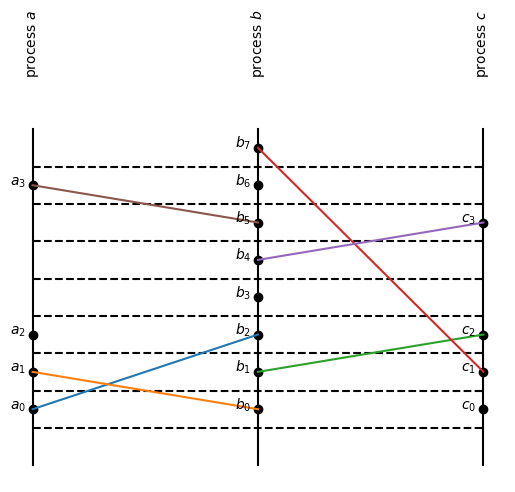
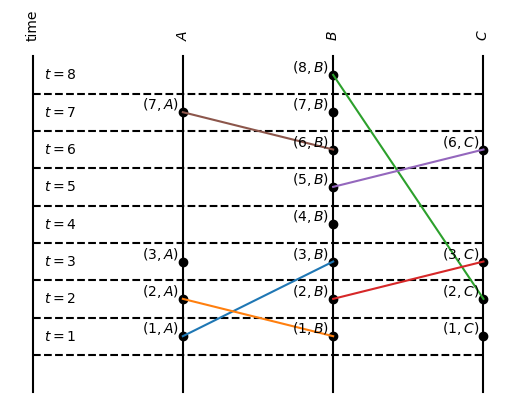
Improves plotting
- Adds a time axis
- Changes labels
- Improves code readability

diff --git a/plot.py b/plot.py
@@ -1,59 +1,73 @@
 import matplotlib.pyplot as plt
 import string
 
-data = """send 0 0 1 1
+class Event:
+
+    def __init__(self, kind, owner, src, dst, timestamp):
+        self.kind = kind
+        self.owner = owner
+        self.src = src
+        self.dst = dst
+        self.timestamp = timestamp
+
+data = """local 2 -1 -1 1
+send 2 2 1 2
+send 0 0 1 1
 send 1 1 0 1
 send 1 1 2 2
+receive 2 1 2 3
+receive 0 1 0 2
+local 0 -1 -1 3
 receive 1 0 1 3
 local 1 -1 -1 4
 send 1 1 2 5
 send 1 1 0 6
-local 1 -1 -1 7
-local 2 -1 -1 1
-send 2 2 1 2
-receive 1 2 1 8
-receive 0 1 0 2
-local 0 -1 -1 3
 receive 0 1 0 7
-receive 2 1 2 3
-receive 2 1 2 6"""
+receive 2 1 2 6
+local 1 -1 -1 7
+receive 1 2 1 8"""
 
 events = list(map(lambda x : x.split(' '),  data.split("\n")))   
-events = list(map(lambda x : [x[0], int(x[1]), int(x[2]), int(x[3]),  int(x[4])], events))
-events.sort(key = lambda x : x[4])
-max_timestamp = events[-1][4]
+events = list(map(lambda x : Event(x[0], int(x[1]), int(x[2]), int(x[3]),  int(x[4])), events))
+events.sort(key = lambda e : e.timestamp)
+maxTimestamp = events[-1].timestamp
 
-num_threads = 3
+numThreads = len({e.owner for e in events}) # numThreads is the number of distinct owners (processes)
 
 # horizontal lines
-for i in range(max_timestamp):
-    plt.plot([0, num_threads - 1], [i + 0.5, i + 0.5], "k--")
+for i in range(maxTimestamp):
+    plt.plot([0, numThreads], [i + 0.5, i + 0.5], "k--")
 
 # vertical lines
-for i in range(num_threads):
-    plt.plot([i, i], [-0.5, max_timestamp + 0.5], "k")
+for i in range(numThreads + 1):
+    plt.plot([i, i], [-0.5, maxTimestamp + 0.5], "k")
 
 # thread labels
-for i in range(num_threads):
-    plt.text(i, max_timestamp + 2, "process ${}$".format(string.ascii_letters[i]), rotation="vertical", horizontalalignment="center")
+labels = ["time"] + ["${}$".format(string.ascii_uppercase[i]) for i in range(numThreads)]
+for i, label in enumerate(labels):
+    plt.text(i, maxTimestamp + 1, label, rotation="vertical", horizontalalignment="center")
+
+# time labels
+for t in range(1, maxTimestamp + 1):
+    plt.text(0.075, t - 0.1, "$t={}$".format(t))
 
 # event labels
-for i in range(num_threads):
-    for (j, e) in enumerate(filter(lambda e: e[1] == i, events)):
-        plt.text(e[1] - 0.1, e[4], "${}_{}$".format(string.ascii_letters[i], j))
+for i in range(numThreads):
+    for (j, e) in enumerate(filter(lambda e: e.owner == i, events)):
+        plt.text(e.owner - 0.275 + 1, e.timestamp + 0.1, "$({},{})$".format(e.timestamp, string.ascii_uppercase[i]))
 
 # events
 while len(events) > 0:
     e = events.pop(0)
 
-    if e[0] == 'local':
-        plt.scatter([e[1]], [e[4]], c="k")
-    elif e[0] == 'send':
+    if e.kind == 'local':
+        plt.scatter([e.owner + 1], [e.timestamp], c = "k")
+    elif e.kind == 'send':
         s = e
-        (x0, y0) = (s[1], s[4])
-        r = next(e for e in events if e[0] == 'receive'and e[2] == s[2])
-        (x1, y1)  = (r[1], r[4])
-        plt.scatter([x0, x1], [y0, y1], c="k")
+        (x0, y0) = (s.owner + 1, s.timestamp)
+        r = next(e for e in events if e.kind == 'receive' and e.src == s.src)
+        (x1, y1)  = (r.owner + 1, r.timestamp)
+        plt.scatter([x0, x1], [y0, y1], c = "k")
         plt.plot([x0, x1], [y0, y1])
         events.remove(r)
     else:
